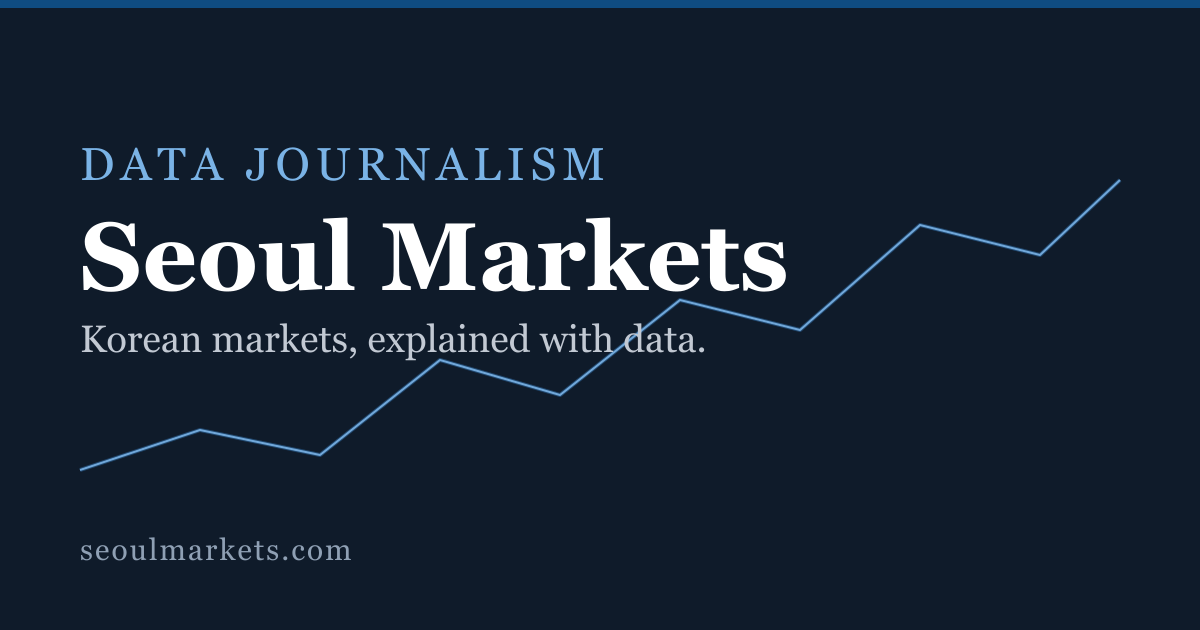
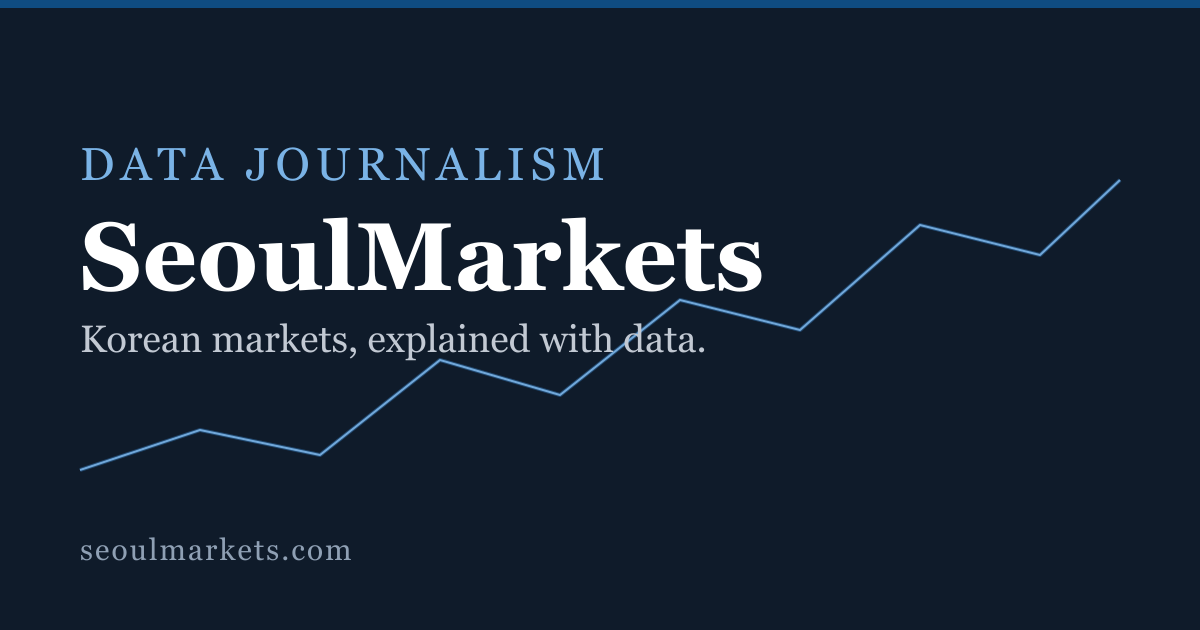
브랜드 표기 SeoulMarkets로 통일 + 발행 주체 정보 입력
- 사이트명을 한 단어 SeoulMarkets 로 (KLifeMap 과 같은 표기 방식).
  로고 강조색을 위해 SITE.nameParts 분리, OG 카드 재생성
- PUBLISHER 를 사업자등록증 기준 실제 정보로 교체
  (주식회사 옆커폰세종 / 456-87-03384 / 세종 남세종로 441)
- 대표자·국문 주소를 About·푸터에 노출 — YMYL 심사에서 발행 주체 식별에 쓰인다

Claude-Session: https://claude.ai/code/session_01JbiCvb2UiizDm7RWacPpTS

Changed region(s): [[0.3083, 0.3317, 0.6783, 0.4825]]

diff --git a/src/consts.ts b/src/consts.ts
@@ -6,7 +6,10 @@
 export const SITE_URL = 'https://seoulmarkets.com';
 
 export const SITE = {
-  name: 'Seoul Markets',
+  // 한 단어로 붙여 쓰고 각 낱말의 첫 글자를 대문자로. (KLifeMap 과 같은 표기 방식)
+  name: 'SeoulMarkets',
+  /** 로고에서 뒷부분에 강조색을 주기 위한 분할. name 을 바꾸면 여기도 맞출 것. */
+  nameParts: ['Seoul', 'Markets'],
   tagline: 'Korean markets, explained with data.',
   description:
     'Data journalism on Korean equities, currencies, bonds, commodities and macroeconomics — sourced from official Korean government open data, published in English.',
@@ -17,15 +20,20 @@ export const SITE = {
 /**
  * 발행 주체 정보. 구글은 금융 콘텐츠를 YMYL로 심사하므로
  * 법인명·주소·연락처가 비어 있으면 검색 노출이 사실상 막힌다.
- * ⚠ TODO: 아래 PLACEHOLDER를 실제 사업자등록 정보로 교체할 것.
+ * 출처: 사업자등록증(법인사업자), 세종세무서장 발급 2025-07-17.
  */
 export const PUBLISHER = {
-  legalName: 'PLACEHOLDER Co., Ltd.', // TODO: 사업자등록증상 법인명(영문)
-  legalNameKo: 'PLACEHOLDER 주식회사', // TODO: 국문 법인명
-  bizRegNo: '000-00-00000', // TODO: 사업자등록번호
-  address: 'PLACEHOLDER, Seoul, Republic of Korea', // TODO: 사업장 주소(영문)
-  email: 'editor@seoulmarkets.com', // TODO: 실제 수신 가능한 주소
-  foundedYear: 2026,
+  legalName: 'Yeopkeopon Sejong Co., Ltd.',
+  legalNameKo: '주식회사 옆커폰세종',
+  representative: 'Kim Mi-hee',
+  representativeKo: '김미희',
+  bizRegNo: '456-87-03384',
+  address: 'Unit 101, 1F, Commercial Bldg. 1, 441 Namsejong-ro, Boram-dong, Sejong, Republic of Korea',
+  addressKo: '세종특별자치시 남세종로 441 상가1동 1층 101호 (보람동, 호려울마을5단지)',
+  // ⚠ 도메인은 등록됐지만 메일 수신 설정은 아직이다.
+  //    Spaceship 에서 이 주소로 포워딩을 걸어야 실제로 받아볼 수 있다.
+  email: 'editor@seoulmarkets.com',
+  foundedYear: 2025, // 법인 개업일 2025-07-15
 } as const;
 
 /**

diff --git a/README.md b/README.md
@@ -1,4 +1,4 @@
-# Seoul Markets
+# SeoulMarkets
 
 한국 금융시장 전반(증시·외환·채권·커머디티·거시) 데이터를 영문으로 발행하는 데이터저널리즘 사이트.
 Astro 정적 사이트 — 클라이언트 JS 0바이트, 외부 폰트·CDN 없음, DB 없음, 관리자 화면 없음.
